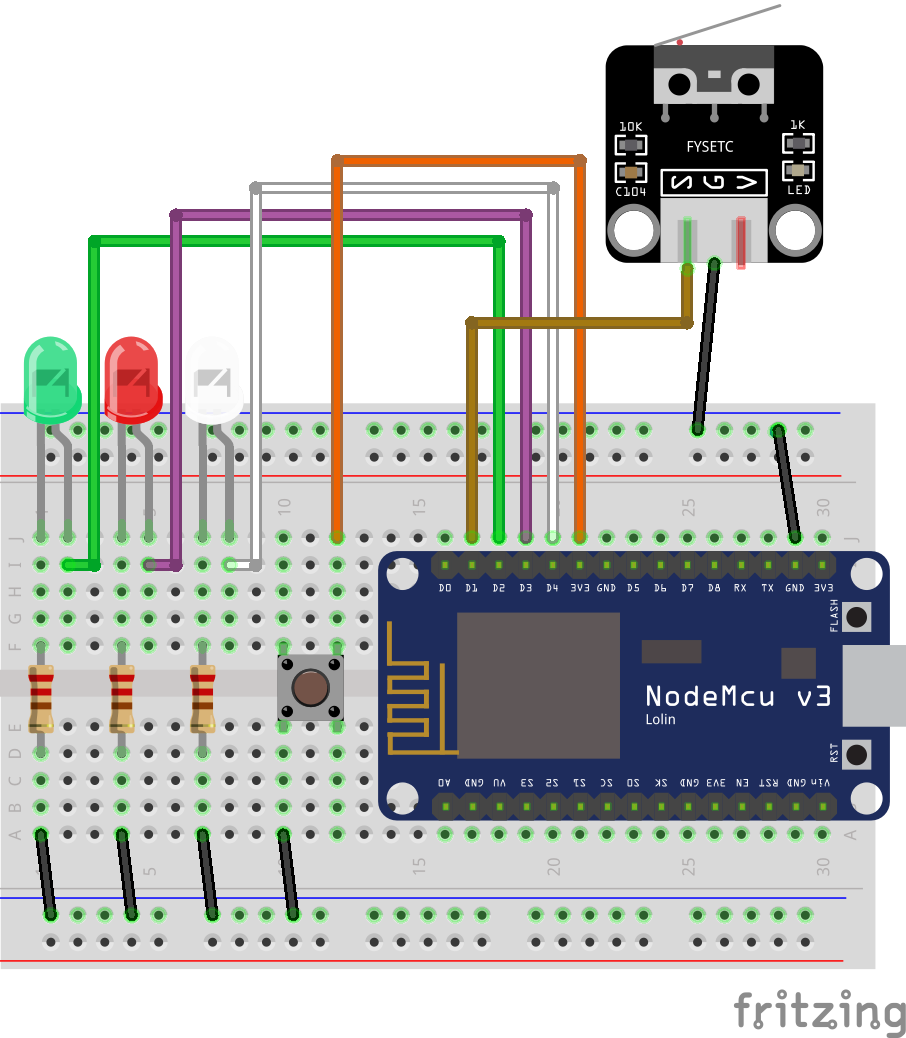
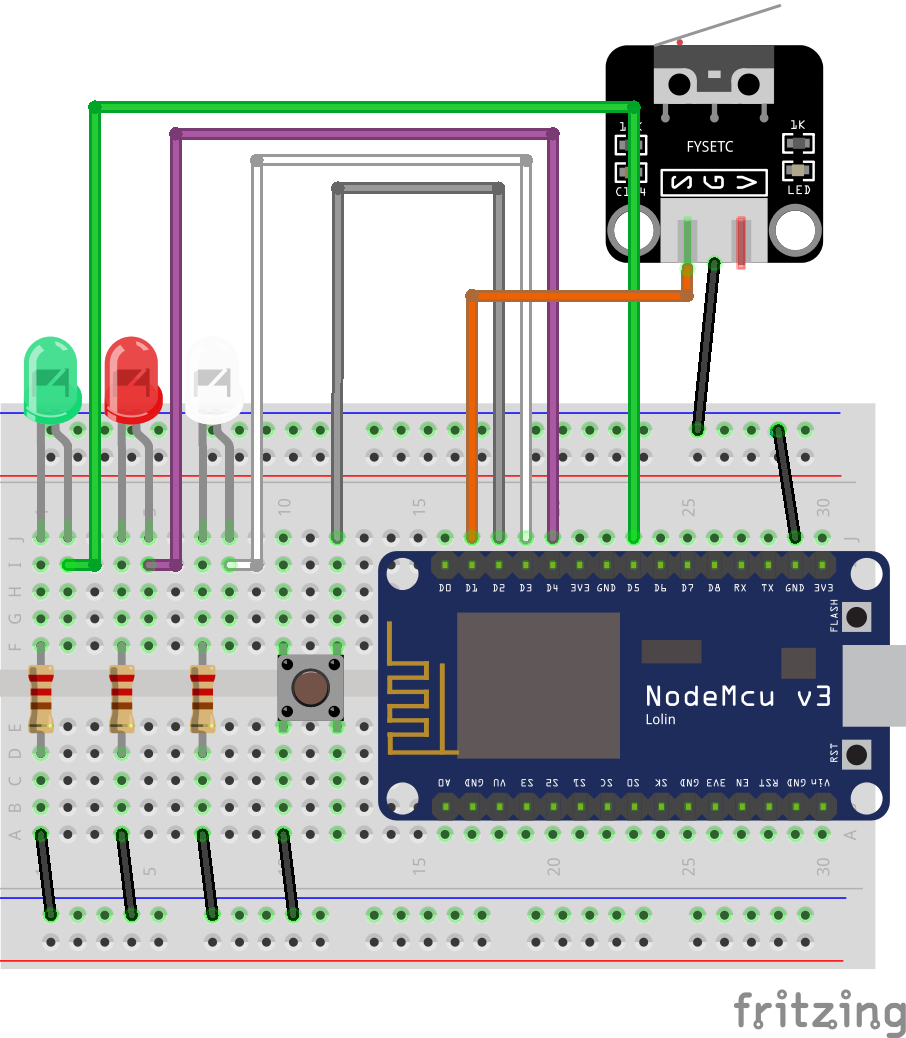
Added snozzed feature

Changed region(s): [[0.0927, 0.0925, 0.7726, 0.5241]]

diff --git a/src/main.cpp b/src/main.cpp
@@ -25,14 +25,8 @@
 
 #define appName      "GateKeeper!"
 #define ENABLE_DEBUG
-#define CONFIG_BUTTON D5
+#define CONFIG_BUTTON D2
 #define GATE_SENSOR D1
-
-#ifdef ENABLE_DEBUG
-  #define DEBUG_ESP_PORT Serial
-  #define NODEBUG_WEBSOCKETS
-  #define NDEBUG
-#endif
 
 AsyncWebServer  server(80);
 DNSServer       dns;
@@ -42,12 +36,12 @@ Ticker          ticker;
 Ticker          tickerDOG;
 volatile int    watchdogCount;
 Bounce debouncer         = Bounce();
-int statusLED[3]         = {D2, D3, D4};
+int statusLED[3]         = {D5, D4, D3};
 bool sendClosedMessage   = false;
 bool myPowerState        = true;
 bool shouldSaveConfig    = false;
-bool snozzedNotifications= false;
-int snozzeTimeout        = 0;
+bool snoozedNotifications= false;
+unsigned long snoozedTimeout        = 0;
 int countOpenGarage      = 0;
 
 char waitTimer[3];
@@ -221,8 +215,8 @@ void doubleclick() {
 
 void snoozeNotification() {
   Serial.println("Snooze");
-  snozzedNotifications = true;
-  snozzeTimeout = millis() + 1800000; // 30 mins
+  snoozedNotifications = true;
+  snoozedTimeout = millis() + 1800000; // 30 mins
 }
 
 bool onPowerState(const String &deviceId, bool &state) {
@@ -274,7 +268,17 @@ void sendGarageClosedMessage() {
 void repeatMe() {
   countOpenGarage++;
   int pastTime = atoi(waitTimer) * countOpenGarage;
-  sendNotification(appName, "Atenção o portão está aberto a " + String(pastTime) + " minutos!");
+
+  if(snoozedNotifications) {
+    if(millis() > snoozedTimeout) {
+      snoozedTimeout = 0;
+      snoozedNotifications = false;
+      sendNotification(appName, "Atenção ACORDEI e o portão ainda está aberto a " + String(pastTime) + " minutos!");
+    }
+  } else {
+    sendNotification(appName, "Atenção o portão está aberto a " + String(pastTime) + " minutos!");
+  }
+
   SinricProContactsensor &myContact = SinricPro[alexa_sensor_id];
   myContact.sendContactEvent(LOW);
   digitalWrite(statusLED[2], HIGH);
